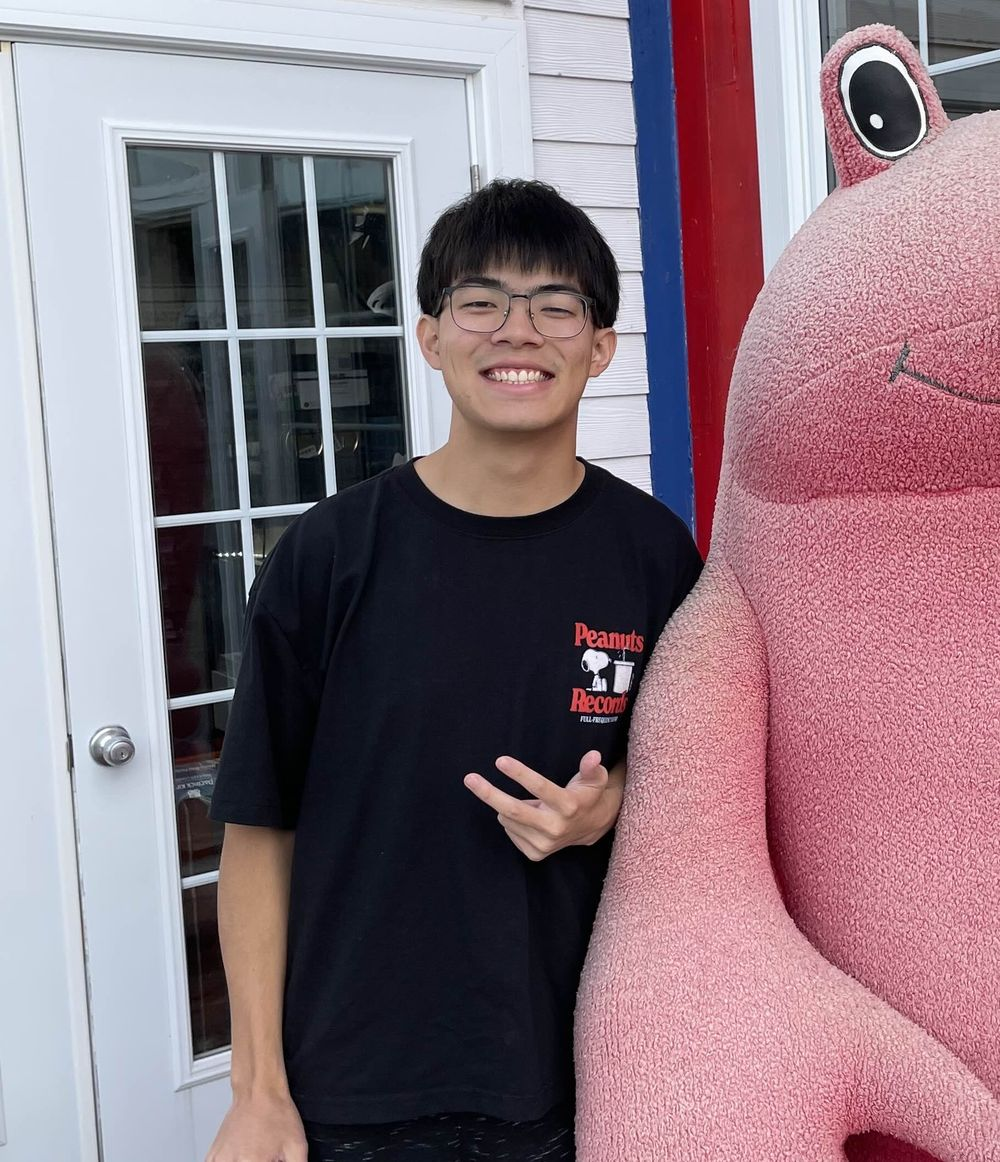
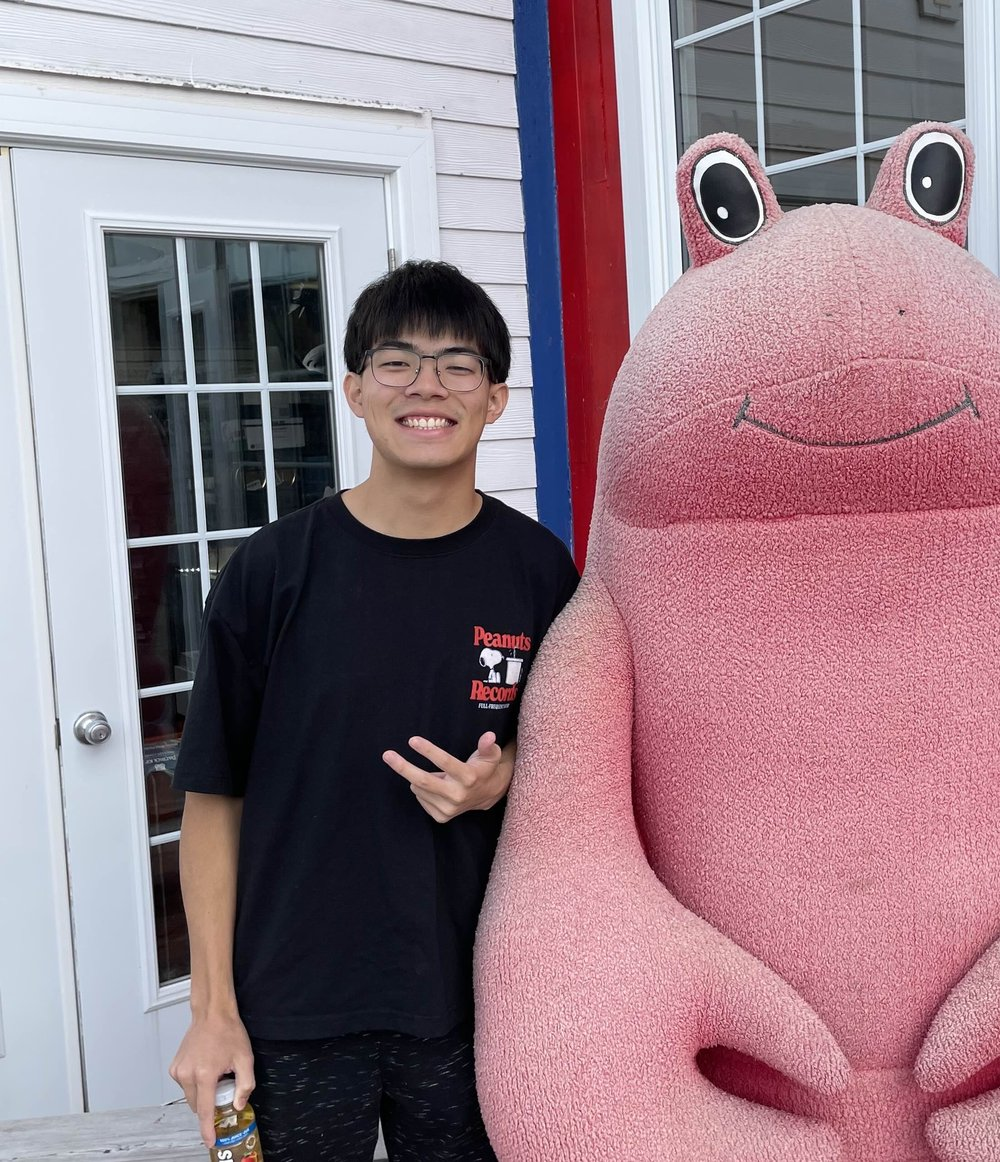
Zoom out hero portrait and update caption
AI-Model: geotab-anthropic/claude-opus-5.5

diff --git a/tests/portfolio.spec.ts b/tests/portfolio.spec.ts
@@ -305,6 +305,8 @@ test('introduction shows identity, portrait, and current focus', async ({ page }
   const portrait = about.getByRole('img', { name: /William Shen smiling/ })
   await expect(portrait).toBeVisible()
   expect(await portrait.evaluate((image: HTMLImageElement) => image.complete && image.naturalWidth)).toBe(1000)
+  await expect(about.locator('figcaption')).toHaveText('01 / me in halifax with a lobster')
+  await expect(about).not.toContainText('HELLO, WORLD')
   await expect(about.getByRole('list', { name: 'Currently' }).getByRole('listitem')).toHaveText([
     'Computational mathematics specialization',
     'Combinatorics & optimization minor',

diff --git a/src/components/Portrait.module.css b/src/components/Portrait.module.css
@@ -1,7 +1,7 @@
 .portrait { margin: 0; position: relative; min-width: 0; }
 .frame { aspect-ratio: 4 / 4.65; position: relative; overflow: hidden; border-radius: 3px 3px 80px 3px; background: #d8decc; }
 .image { width: 100%; height: 100%; position: absolute; inset: 0; object-fit: cover; object-position: 50% 20%; }
-.caption { margin-top: 17px; display: flex; justify-content: space-between; gap: 10px; font: 9px monospace; letter-spacing: 1.2px; color: var(--muted); }
+.caption { margin-top: 17px; font: 9px monospace; letter-spacing: 1.2px; color: var(--muted); }
 
 @media (max-width: 680px) {
   .portrait { width: 100%; }

diff --git a/src/components/Portrait.tsx b/src/components/Portrait.tsx
@@ -14,7 +14,7 @@ export function Portrait() {
           decoding="async"
         />
       </div>
-      <figcaption className={styles.caption}><span>01 / THE PERSON BEHIND THE GARDEN</span><span>HELLO, WORLD.</span></figcaption>
+      <figcaption className={styles.caption}>01 / me in halifax with a lobster</figcaption>
     </figure>
   )
 }
